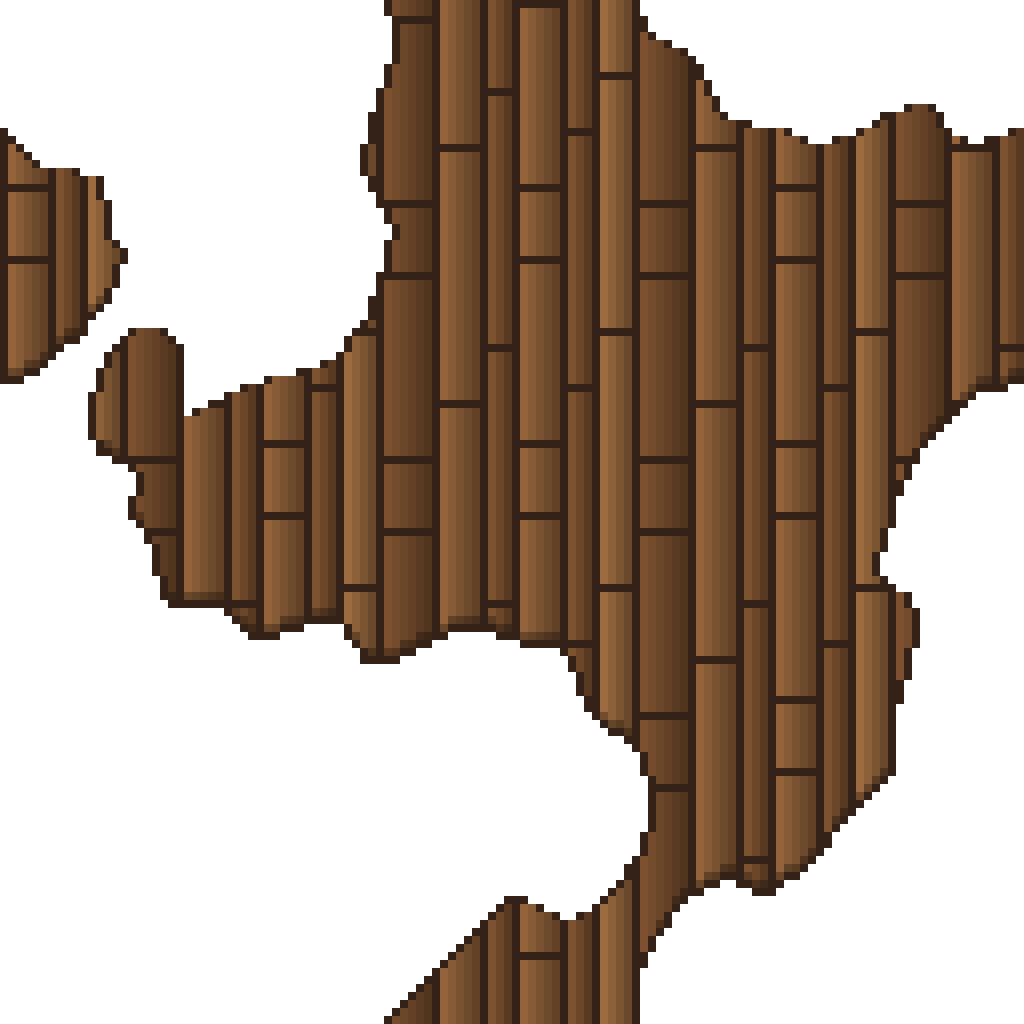
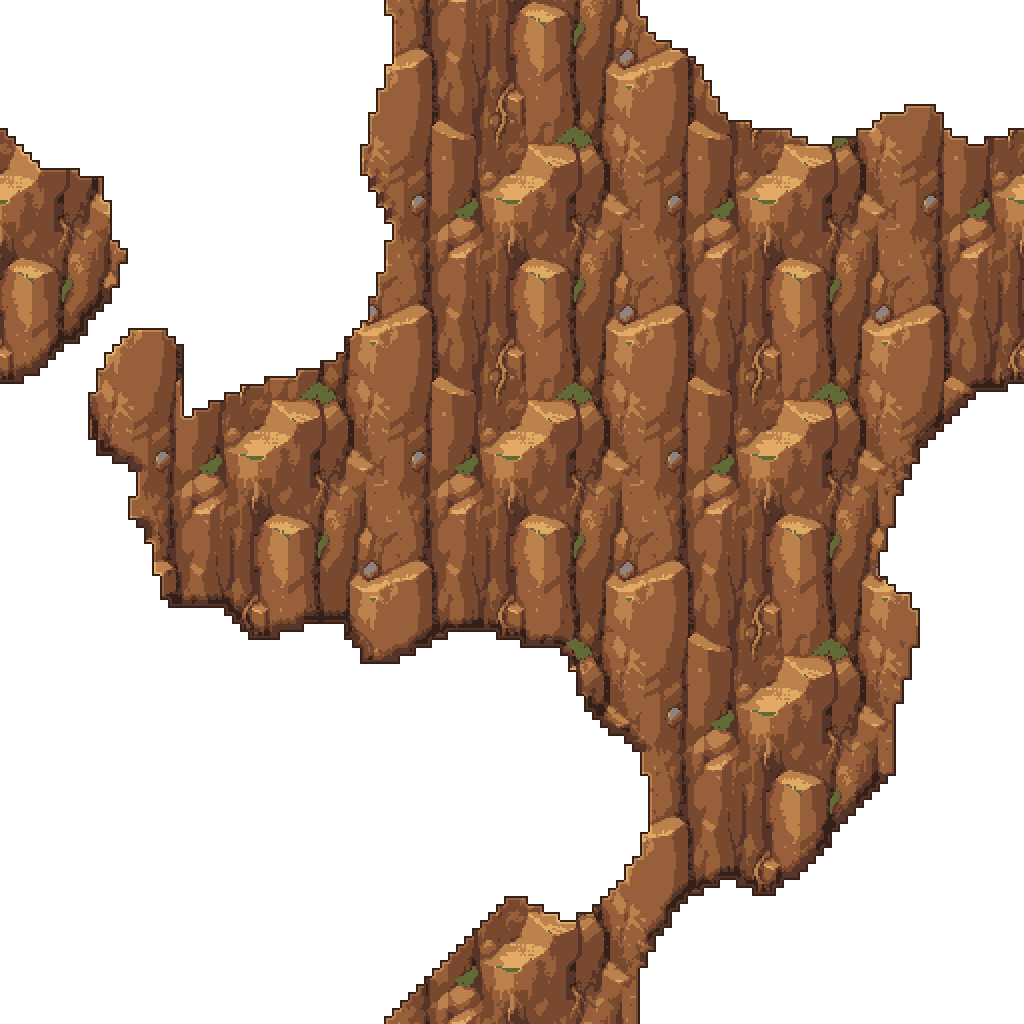
Use the painted plateau and cliff wall dual-grid sheets
Swaps in the painted sheets and draws one wall tile per level on a 96-unit lattice,
which shows the art at its intended size.

Claude-Session: https://claude.ai/code/session_0152bnL1ocuryXt8KDsiAXGp

diff --git a/src/layered-terrain.js b/src/layered-terrain.js
@@ -7,8 +7,8 @@ import {rampArtwork,drawRampPiece} from './ramp-art.js';
 import {groundPattern} from './ground-textures.js';
 import {polygonContains} from './elevation.js';
 import {dualGridSheet,drawDualGrid} from './dual-grid.js';
-// Dual-grid lattice spacing in world units: one level (96) is two tiles of cliff wall.
-export const LAYER_CELL=48;
+// Dual-grid lattice spacing in world units: one level (96) is one tile of cliff wall.
+export const LAYER_CELL=96;
 
 const art=new WeakMap();
 let flat=null,mask=null;

diff --git a/docs/DUAL-GRID.md b/docs/DUAL-GRID.md
@@ -8,9 +8,9 @@ counted left to right, top to bottom. `art/sprites/terrain/dual-grid/dual-grid-t
 
 ## Layered areas
 
-`src/layered-terrain.js` draws raised ground with two sheets on a 48-unit lattice:
+`src/layered-terrain.js` draws raised ground with two sheets on a 96-unit lattice (one tile per level):
 
-- `assets/ground/dual/cliff-wall.png`: the earth wall, drawn in rows below each raised level (two rows per level).
+- `assets/ground/dual/cliff-wall.png`: the earth wall, drawn in rows below each raised level (one row per level).
 - `assets/ground/dual/plateau-top.png`: the plateau outline. Its shape cuts the area's own painted ground, and its edge
   pieces (rim and grass lip) are drawn over it.
 
@@ -18,7 +18,8 @@ Stairs and the waterfall curtain are still drawn in code over the tiles. Until b
 floors and drawn faces are used.
 
 Collision is unchanged: the height field in `src/elevation.js` follows the editor's polygons, while the tiles follow the
-48-unit lattice, so a drawn edge can sit up to about 24 units from the true edge.
+96-unit lattice, so a drawn edge can sit up to about 48 units from the true edge.
 
-The sheets in `assets/ground/dual/` are stand-ins drawn by `scripts/draw-dual-grid.py`. Replace them with painted
-1024 x 1024 sheets in the same layout; texture packs can replace them too.
+The sheets in `assets/ground/dual/` are painted 1024 x 1024 sheets (sources in `art/sprites/terrain/dual-grid/`).
+`scripts/draw-dual-grid.py` draws the layout template and plain stand-ins. Replacements must keep the same layout;
+texture packs can replace them too.
